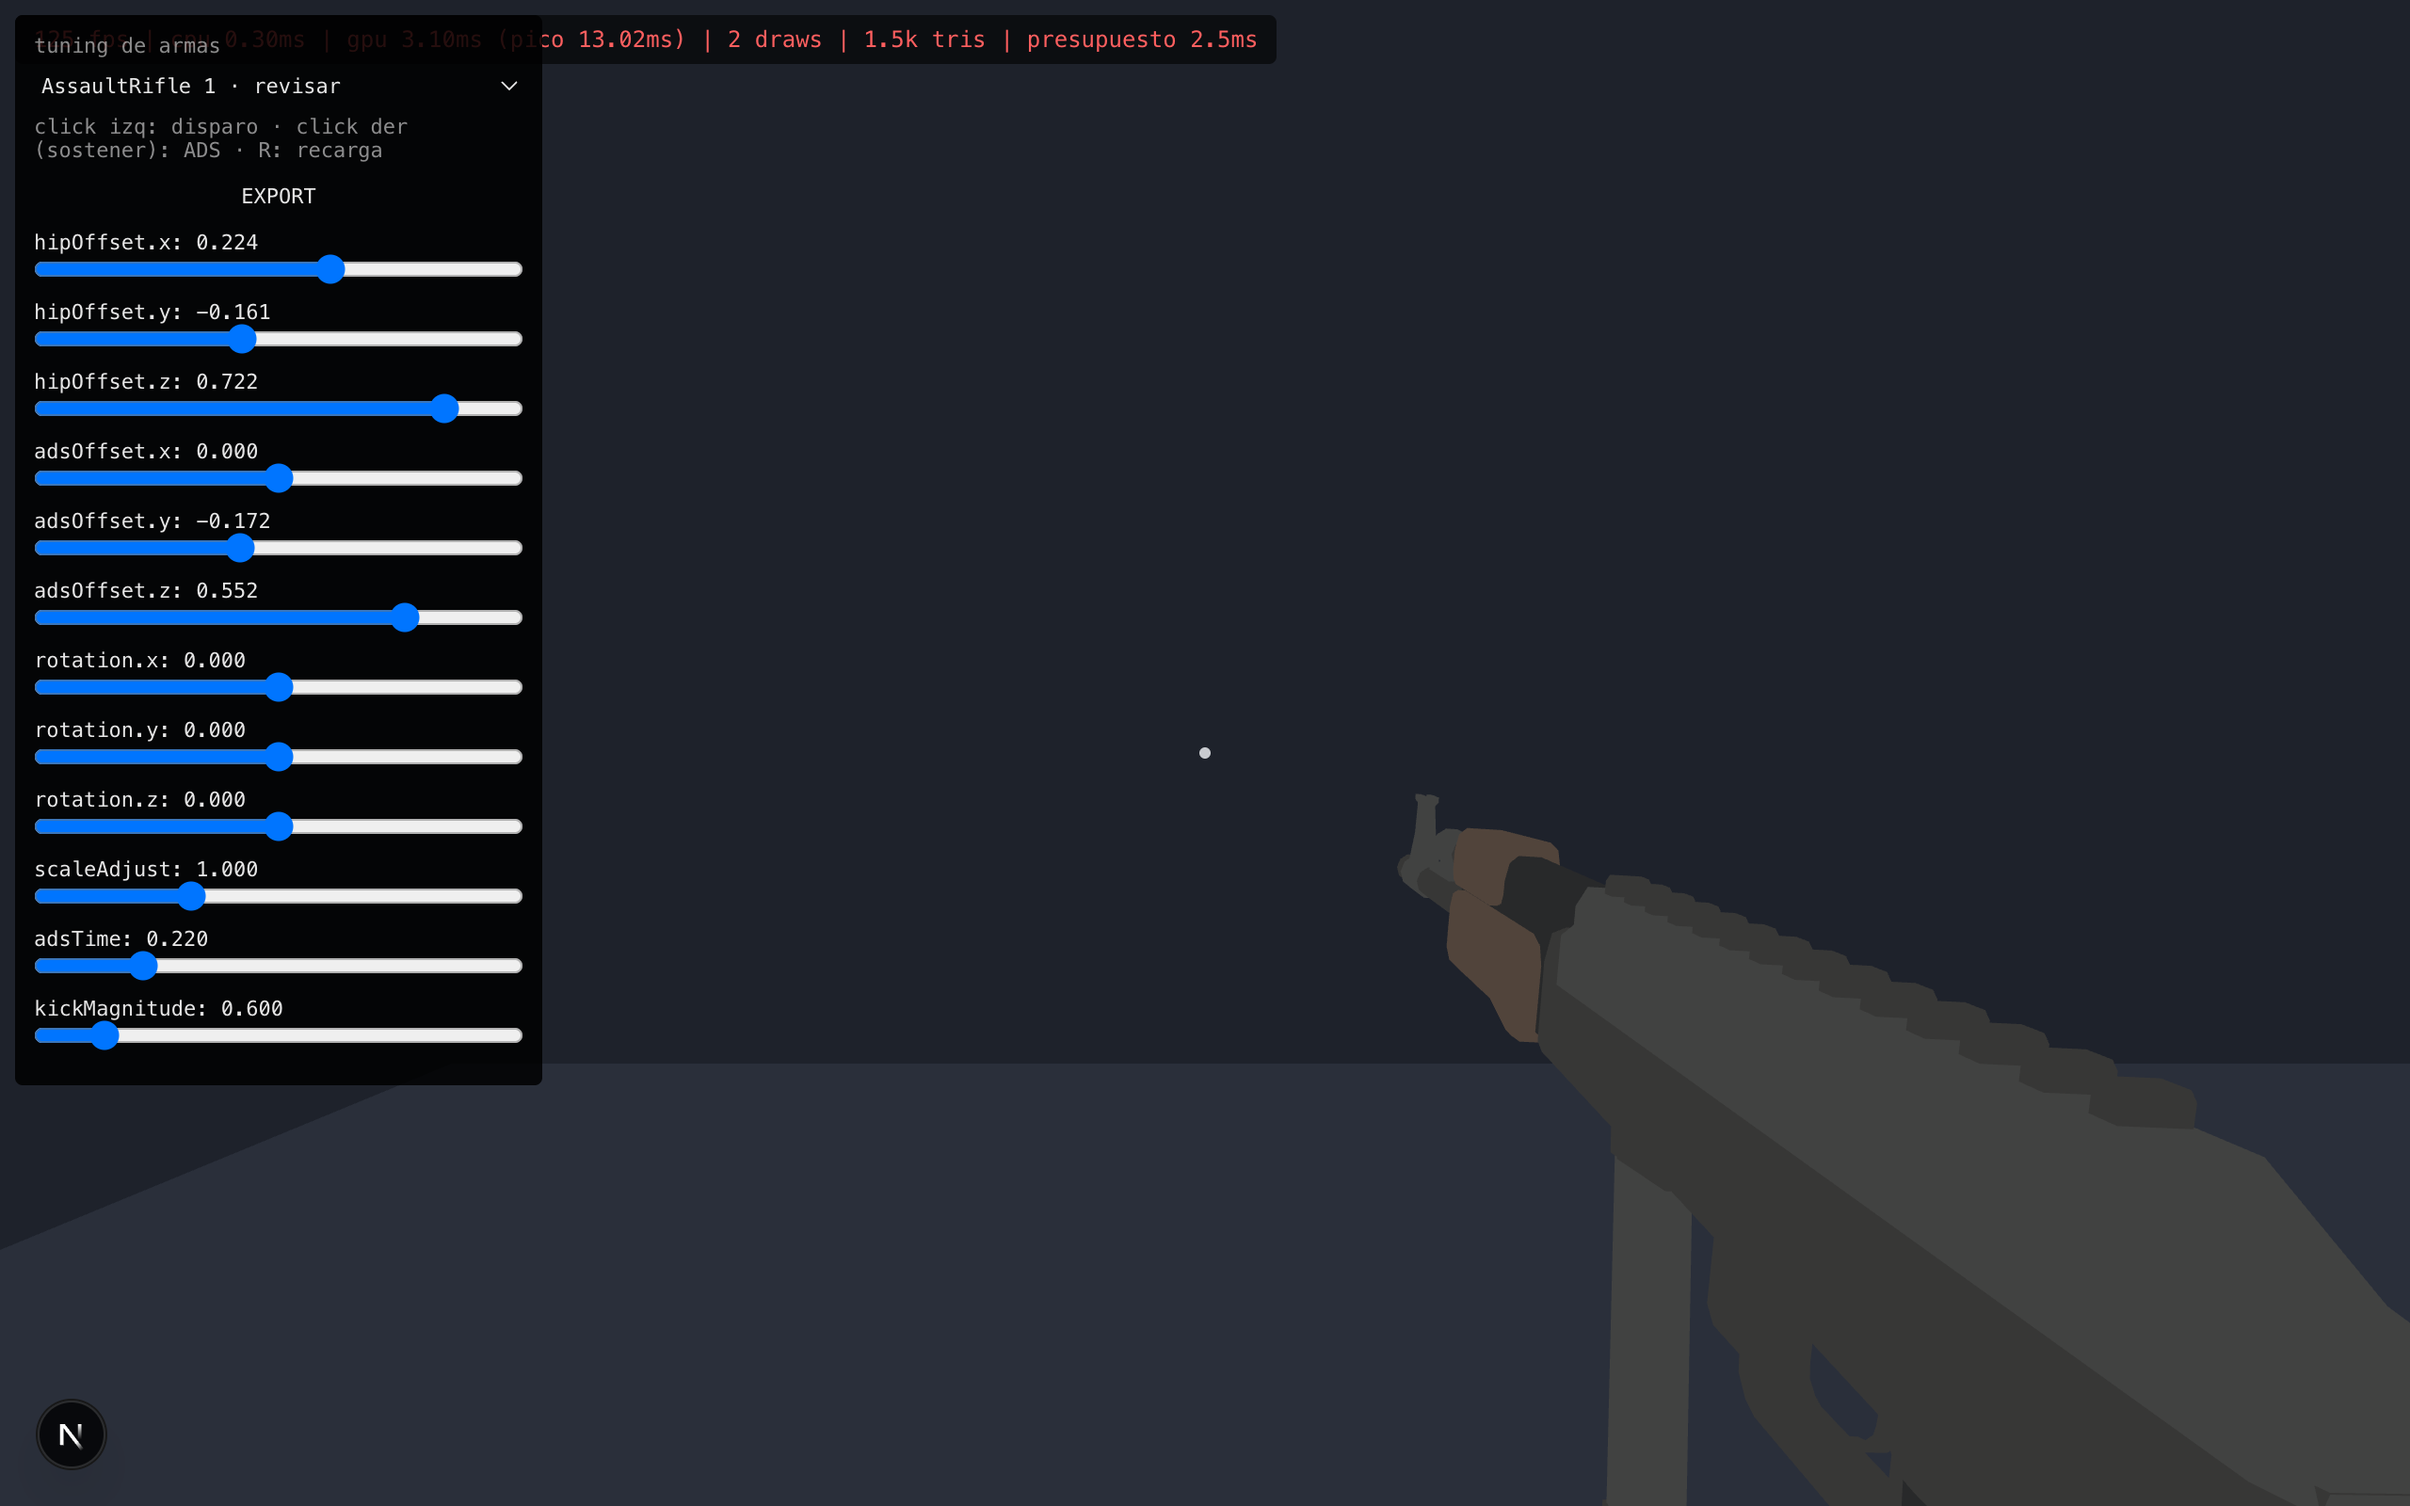
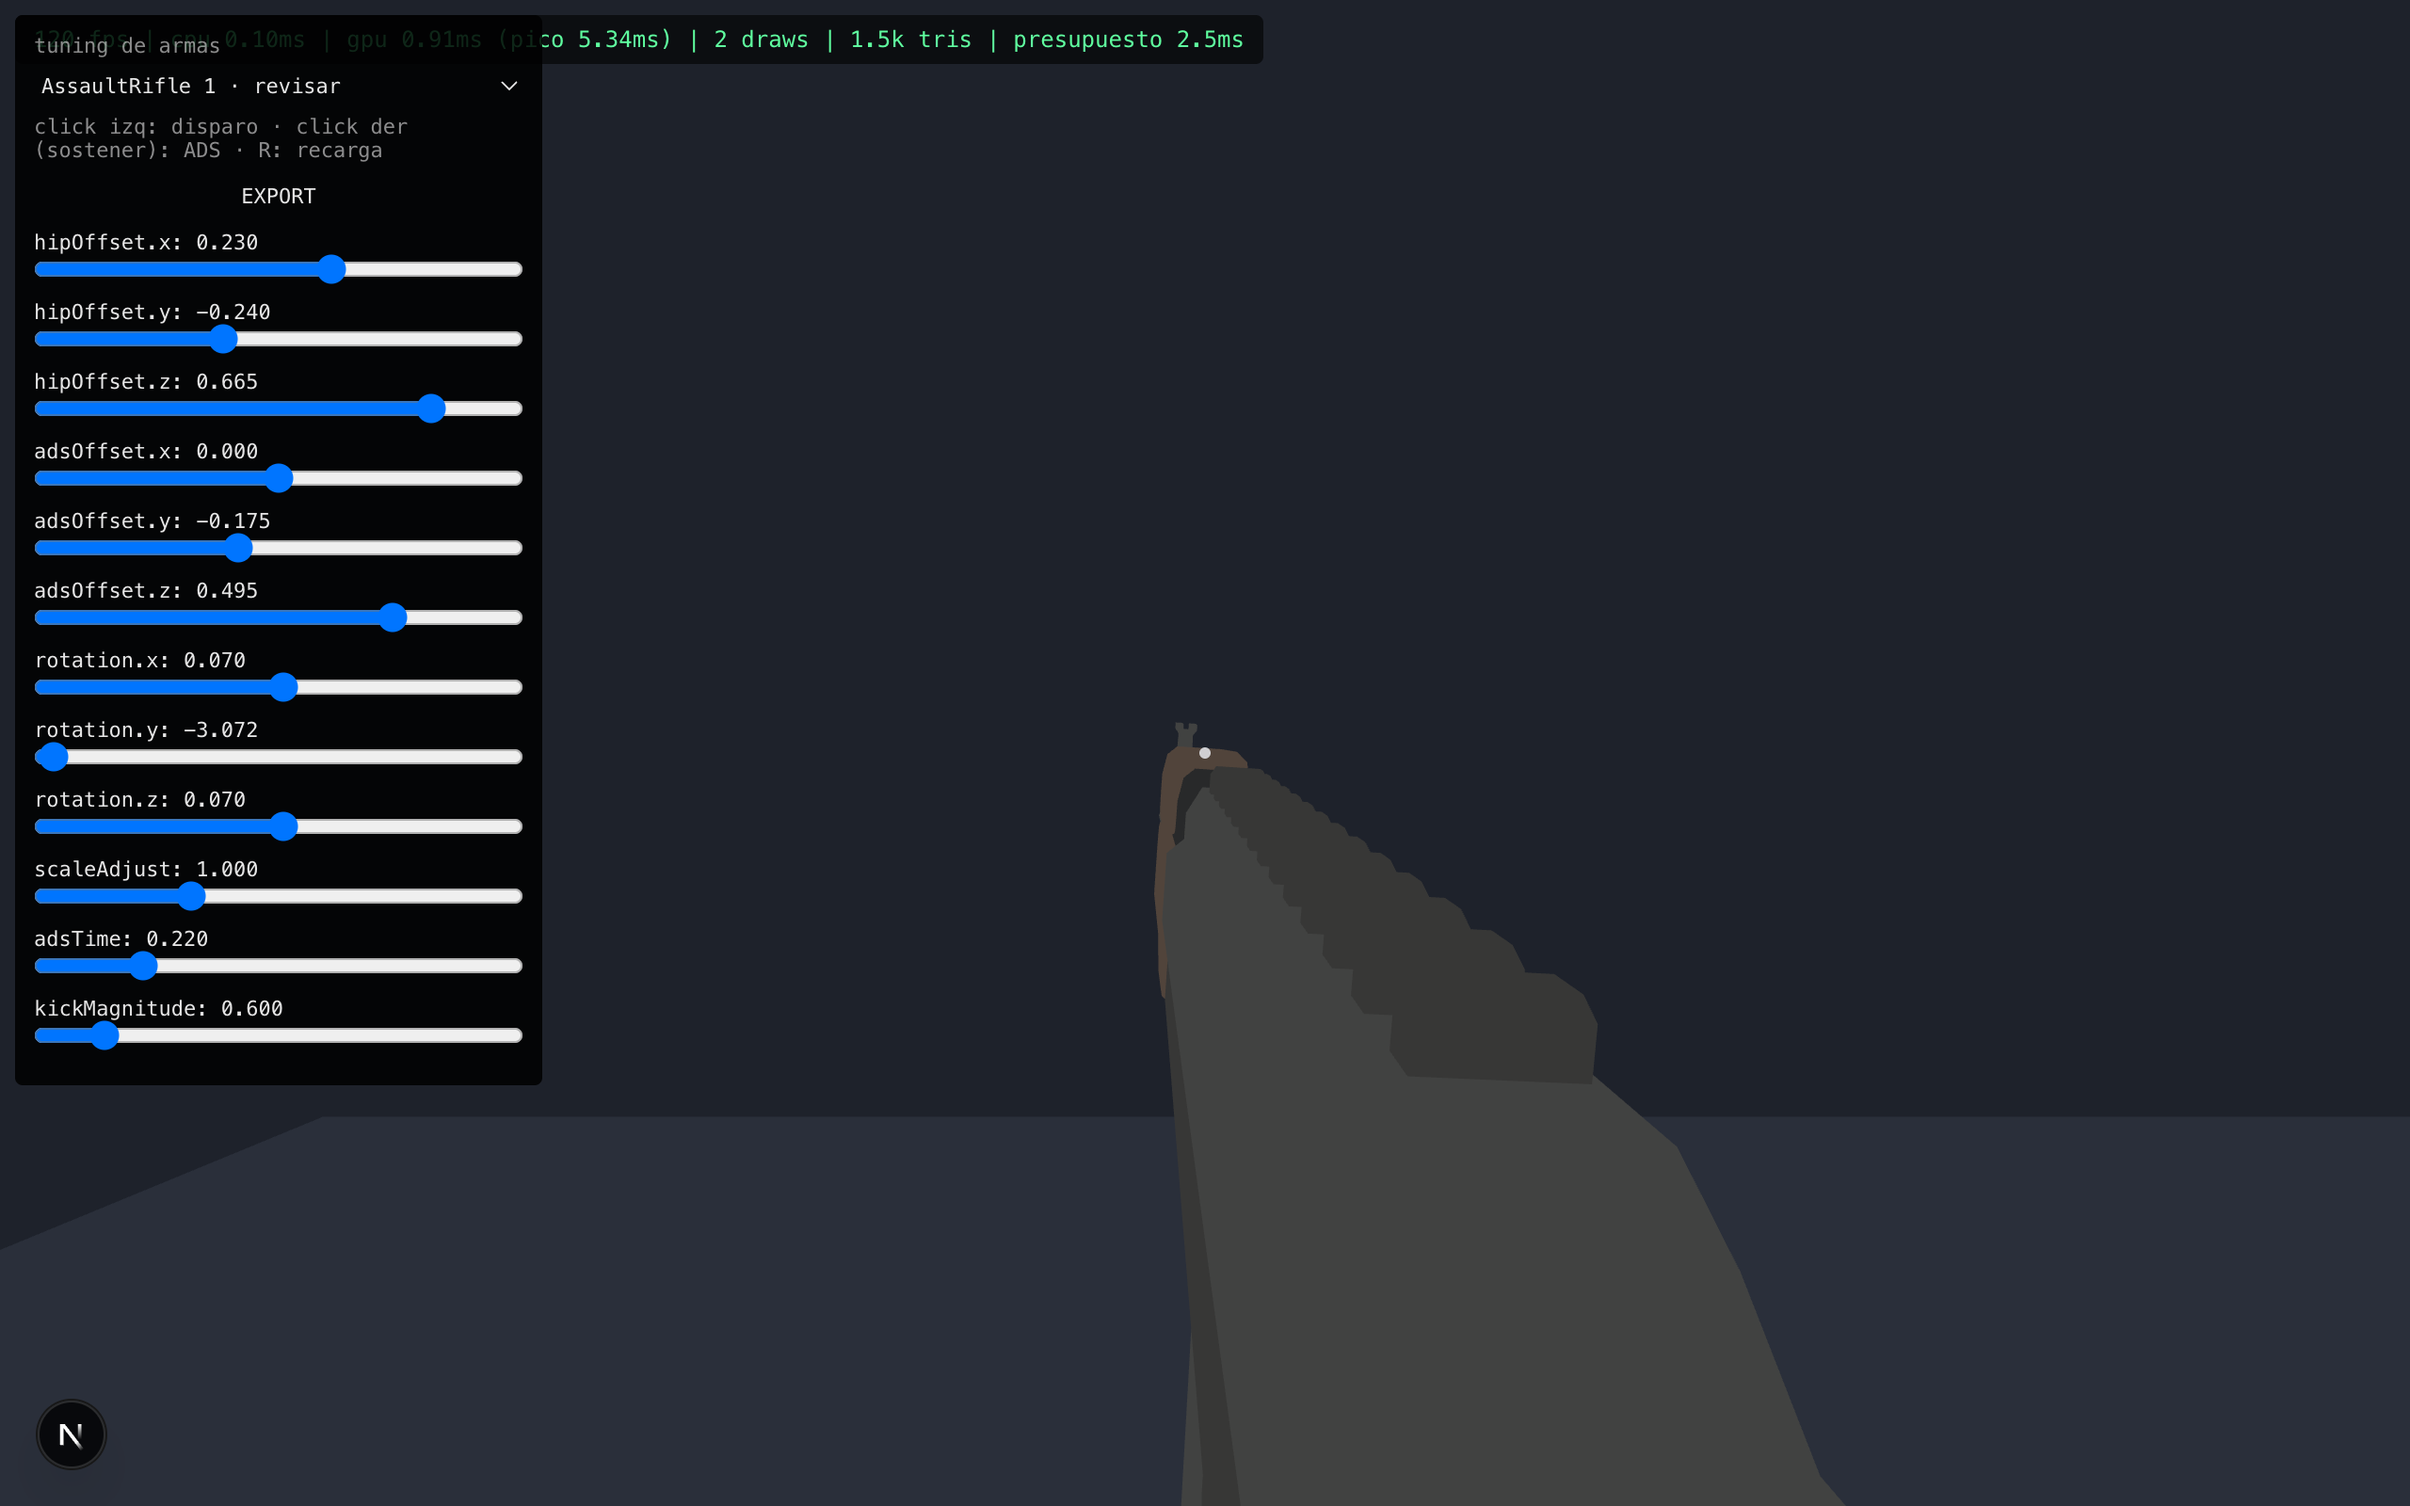
fix: reconstruir el panel de tuning cuando resuelve la carga async de overrides
El fetch de weapons_tuning.json (loadWeaponTuningOverrides, async) sí mutaba
WEAPON_REGISTRY a tiempo -- viewmodel/renderer.ts y adapt.ts#syncRigWeapon lo
releen en vivo cada frame, así que el arma en pantalla ya se veía bien -- pero
buildSliders() del panel de debug snapshoteaba el registry una sola vez, en
el mount, antes de que esa promesa resolviera, y nada lo volvía a construir
después. Resultado: exportar, guardar el archivo y recargar dejaba el panel
mostrando para siempre los valores heurísticos de seed.ts, como si el
override nunca se hubiera aplicado. Verificado en Chrome contra el dev
server: assaultrifle-1 y pistol-2 ya rotan correctamente antes del fix (el
render nunca fue el problema), pero el panel quedaba mintiendo rotation.y:
0.000.

mount() ahora reconstruye los sliders cuando esa carga resuelve (refresh(),
expuesto en la interfaz), reutilizando el mismo loader idempotente que ya
llama game.ts -- sin tocar game.ts ni agregar un bus de eventos, porque el
override muta el objeto in place.

diff --git a/src/game/weapons/viewmodel/tuning-panel.test.ts b/src/game/weapons/viewmodel/tuning-panel.test.ts
@@ -1,6 +1,11 @@
 import { afterEach, beforeEach, describe, expect, it, vi } from 'vitest'
-import { loadWeaponTuningOverrides, weaponOptionLabel } from '@/game/weapons/viewmodel/tuning-panel'
-import { weaponIndex, WEAPON_REGISTRY } from '@/game/weapons/registry'
+import {
+  createWeaponTuningPanel,
+  loadWeaponTuningOverrides,
+  weaponOptionLabel,
+} from '@/game/weapons/viewmodel/tuning-panel'
+import { getWeaponVisual, weaponIndex, WEAPON_REGISTRY } from '@/game/weapons/registry'
+import { createRigWeapon, syncRigWeapon } from '@/game/weapons/viewmodel/adapt'
 
 /**
  * Defecto 5: loadWeaponTuningOverrides valida sólo Number.isFinite, sin
@@ -203,6 +208,83 @@ describe('loadWeaponTuningOverrides', () => {
       await loadWeaponTuningOverrides()
       expect(WEAPON_REGISTRY[SLUG].adsTime).toBe(0.5)
       expect(WEAPON_REGISTRY[SLUG].scaleAdjust).toBe(1.8)
+    })
+  })
+
+  /**
+   * Bug real reproducido en el navegador (Chrome DevTools contra el dev
+   * server, no en Vitest): el panel de tuning (createWeaponTuningPanel más
+   * abajo en este archivo, ver mount()) construye sus sliders leyendo
+   * WEAPON_REGISTRY en el instante del mount, que es ANTES de que resuelva
+   * este fetch -- game.ts dispara loadWeaponTuningOverrides() sin esperarla
+   * en start(). El registro SÍ terminaba mutado a tiempo (viewmodel/
+   * renderer.ts y adapt.ts#syncRigWeapon lo releen en vivo cada frame, así
+   * que el arma en pantalla ya se veía bien), pero nada reconstruía el DOM
+   * del panel después: quien tuneaba exportaba, guardaba el archivo,
+   * recargaba, y el panel seguía mostrando los valores heurísticos de
+   * seed.ts para siempre, como si el override nunca se hubiera aplicado.
+   *
+   * Los tests de arriba (`archivo válido pisa los valores del registry`,
+   * etc.) ya probaban que WEAPON_REGISTRY se muta bien -- ESO nunca fue el
+   * problema, y seguían en verde con el bug presente: por eso pasaban
+   * mientras el feature estaba roto en el navegador, "testeando lo
+   * incorrecto" en el sentido de que no cubrían al consumidor que sí
+   * fallaba. Este bloque pinea dos cosas distintas:
+   *
+   * 1. Por qué alcanza con releer/reconstruir el panel después de que la
+   *    promesa resuelve (la solución real: refresh() en tuning-panel.ts,
+   *    llamado desde mount() con loadWeaponTuningOverrides().then(...)), sin
+   *    necesitar un bus de eventos: loadWeaponTuningOverrides() muta el
+   *    objeto IN PLACE, así que una referencia tomada ANTES de la carga (como
+   *    la que buildSliders() captura al mount) ya ve los valores nuevos
+   *    después, sin volver a llamar a getWeaponVisual().
+   * 2. Que createWeaponTuningPanel expone refresh() y no revienta si se lo
+   *    llama antes o después de mount()/unmount().
+   *
+   * Lo que este archivo NO puede pinear: que refresh() efectivamente
+   * reconstruye el DOM de los sliders con los valores nuevos. vitest.config.ts
+   * corre este archivo con environment: 'node' (sin jsdom/happy-dom
+   * instalado) y createWeaponTuningPanel().mount() usa document/window de
+   * verdad -- no hay forma de invocar mount() acá. Esa parte se verificó a
+   * mano contra el dev server: assaultrifle-1 mostraba "rotation.y: 0.000"
+   * tras un hard reload antes del fix y "rotation.y: -3.072" (el valor real
+   * de weapons_tuning.json) después, sin tocar el dropdown de armas.
+   */
+  describe('contrato real: lo que game.ts lee cada frame refleja el override, no sólo WEAPON_REGISTRY', () => {
+    it('una referencia tomada ANTES de cargar overrides ve los valores nuevos DESPUÉS, sin volver a leer el registry', async () => {
+      // Simula lo que buildSliders() hace en mount(): agarra la referencia
+      // del WeaponVisual ANTES de que loadWeaponTuningOverrides() resuelva.
+      const visualAntesDeLaCarga = getWeaponVisual(SLUG)
+
+      globalThis.fetch = fakeFetch(true, {
+        [SLUG]: { adsOffset: { z: 0.31 }, rotationOffset: { ry: 1.2 }, kickMagnitude: 2.2 },
+      })
+      await loadWeaponTuningOverrides()
+
+      // La MISMA referencia -- sin llamar a getWeaponVisual(SLUG) de nuevo --
+      // ya refleja el override: es un objeto mutado in place, no reemplazado.
+      expect(visualAntesDeLaCarga.adsOffset.z).toBe(0.31)
+      expect(visualAntesDeLaCarga.rotationOffset.ry).toBe(1.2)
+      expect(visualAntesDeLaCarga.kickMagnitude).toBe(2.2)
+
+      // Y el consumidor real que game.ts llama cada frame (adapt.ts) ve lo
+      // mismo si se lo invoca DESPUÉS de que la carga resolvió -- que es
+      // justo lo que render()/syncRigWeapon() hacen en el juego real.
+      const rig = createRigWeapon()
+      syncRigWeapon(rig, getWeaponVisual(SLUG))
+      expect(rig.ads.pz).toBe(0.31)
+      expect(rig.kickMagnitude).toBe(2.2)
+    })
+
+    it('createWeaponTuningPanel expone refresh() y no revienta si se llama sin estar montado', () => {
+      const panel = createWeaponTuningPanel({
+        initialSlug: SLUG,
+        onSelectWeapon: () => {},
+        setFireHeld: () => {},
+        onReload: () => {},
+        setAds: () => {},
+      })
+      expect(() => panel.refresh()).not.toThrow()
     })
   })
 })

diff --git a/src/game/weapons/viewmodel/tuning-panel.ts b/src/game/weapons/viewmodel/tuning-panel.ts
@@ -61,6 +61,15 @@ export interface WeaponTuningControls {
 export interface WeaponTuningPanel {
   mount(parent: HTMLElement): void
   unmount(): void
+  /**
+   * Reconstruye los sliders leyendo WEAPON_REGISTRY de nuevo (no-op si el
+   * panel no está montado). mount() ya la llama sola cuando
+   * loadWeaponTuningOverrides() resuelve -- ver el comentario de esa línea
+   * más abajo -- así que en el uso normal nadie necesita llamarla a mano;
+   * queda pública porque es la única forma de reconstruir el DOM del panel
+   * sin desmontarlo y volverlo a montar.
+   */
+  refresh(): void
 }
 
 interface SliderSpec {
@@ -293,6 +302,31 @@ export function createWeaponTuningPanel(controls: WeaponTuningControls): WeaponT
       window.addEventListener('mouseup', onMouseUp)
       window.addEventListener('contextmenu', onContextMenu)
       window.addEventListener('keydown', onKeyDown)
+
+      // Bug real (no de test): buildSliders() de la línea de arriba lee
+      // WEAPON_REGISTRY en el instante del mount, que es ANTES de que
+      // resuelva el fetch de weapons_tuning.json (loadWeaponTuningOverrides
+      // es async: game.ts la dispara en start() sin esperarla). El registry
+      // SÍ termina mutado a tiempo -- render() en viewmodel/renderer.ts y
+      // syncRigWeapon() en adapt.ts lo releen en vivo cada frame y por eso
+      // el arma en pantalla se ve bien -- pero el DOM de este panel no se
+      // vuelve a construir solo: sin este refresco quedaba mostrando para
+      // siempre los valores heurísticos de seed.ts, así que quien tunea
+      // recargaba la página y el panel le mentía "no cambió nada" aunque el
+      // override sí se hubiera aplicado. game.ts ya llama a
+      // loadWeaponTuningOverrides() por su cuenta (la necesita aunque este
+      // panel no exista, para que el arma se vea bien sin ?debug=1);
+      // llamarla de nuevo acá es idempotente -- vuelve a aplicar el mismo
+      // archivo -- y el navegador la sirve del caché (ver Network: 304), así
+      // que no es un fetch real de más, sólo el enganche para reconstruir
+      // los sliders una vez que el valor ya está disponible.
+      loadWeaponTuningOverrides()
+        .then(() => buildSliders())
+        .catch(() => {})
+    },
+
+    refresh(): void {
+      buildSliders()
     },
 
     unmount(): void {
